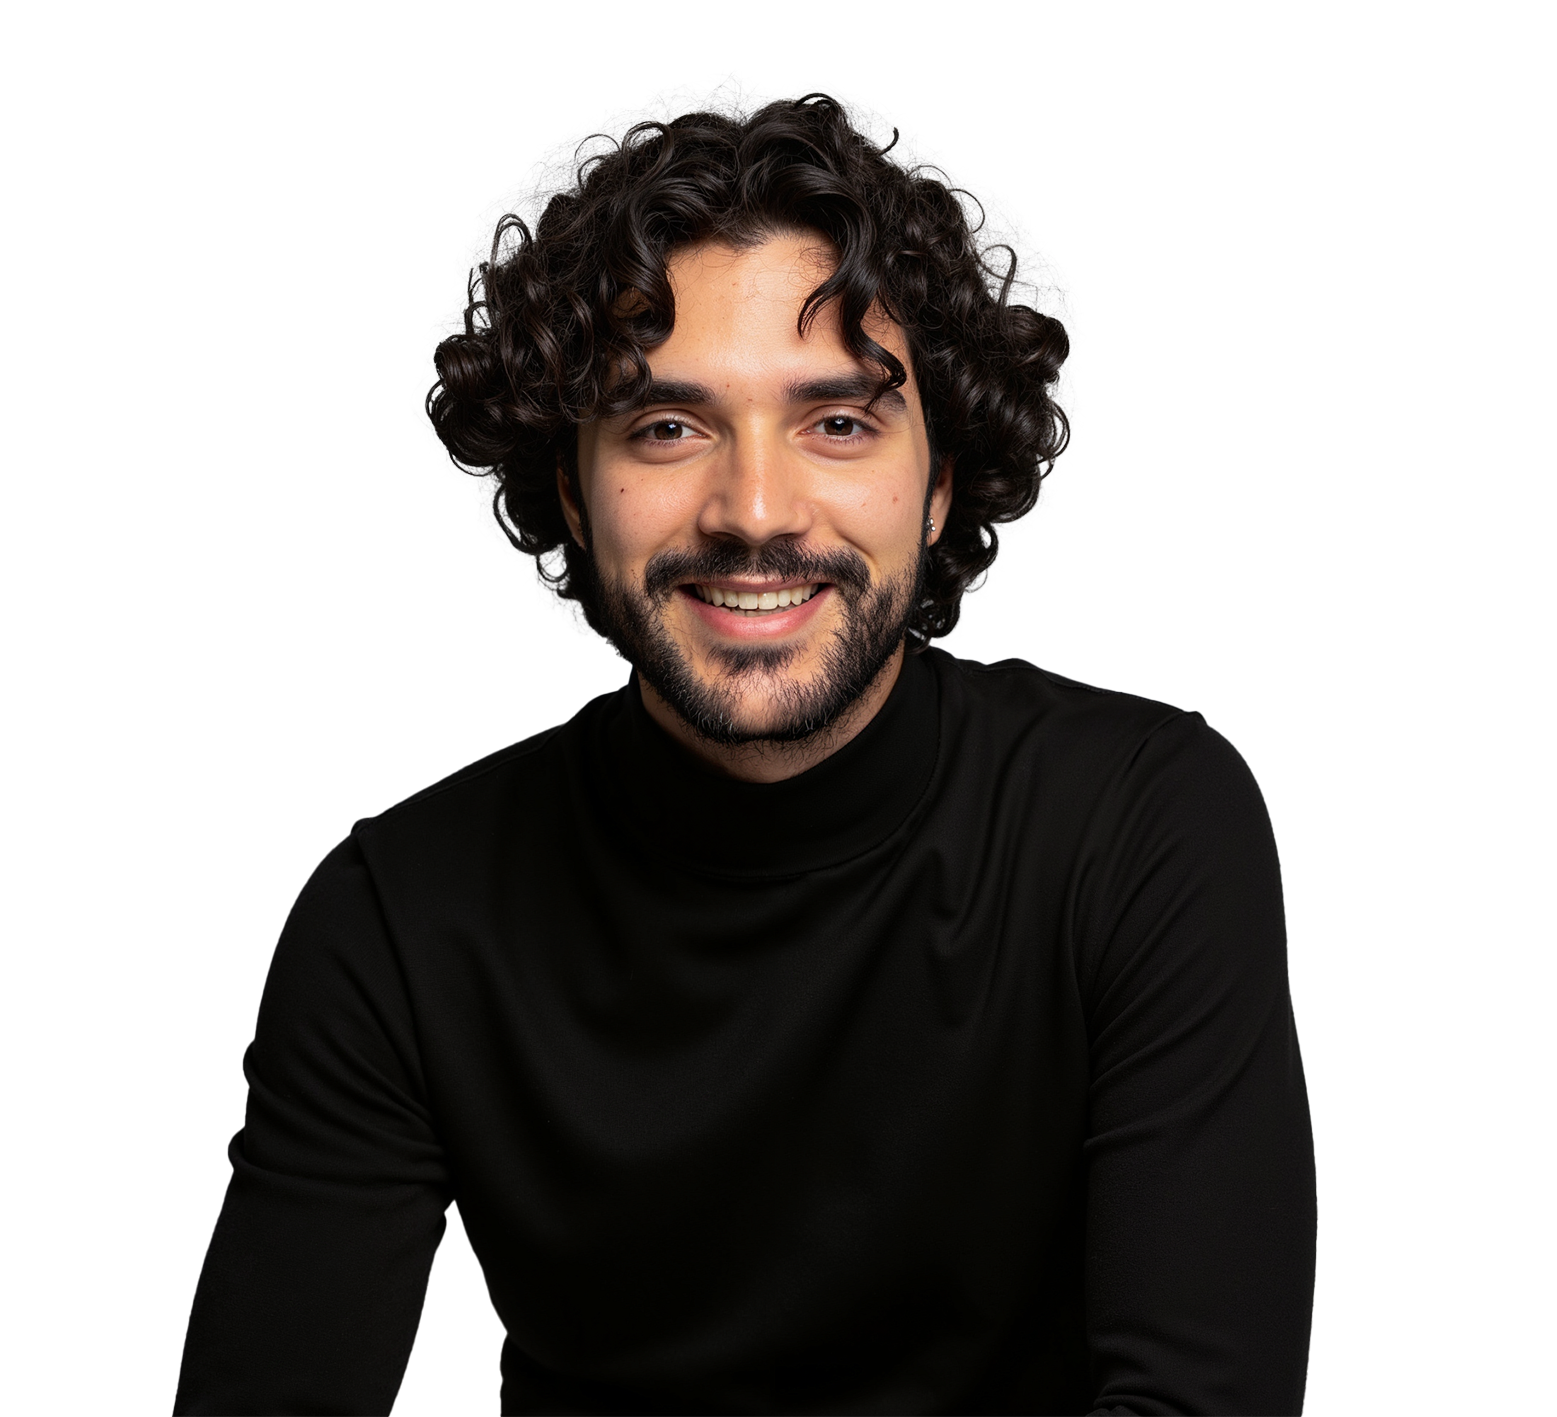
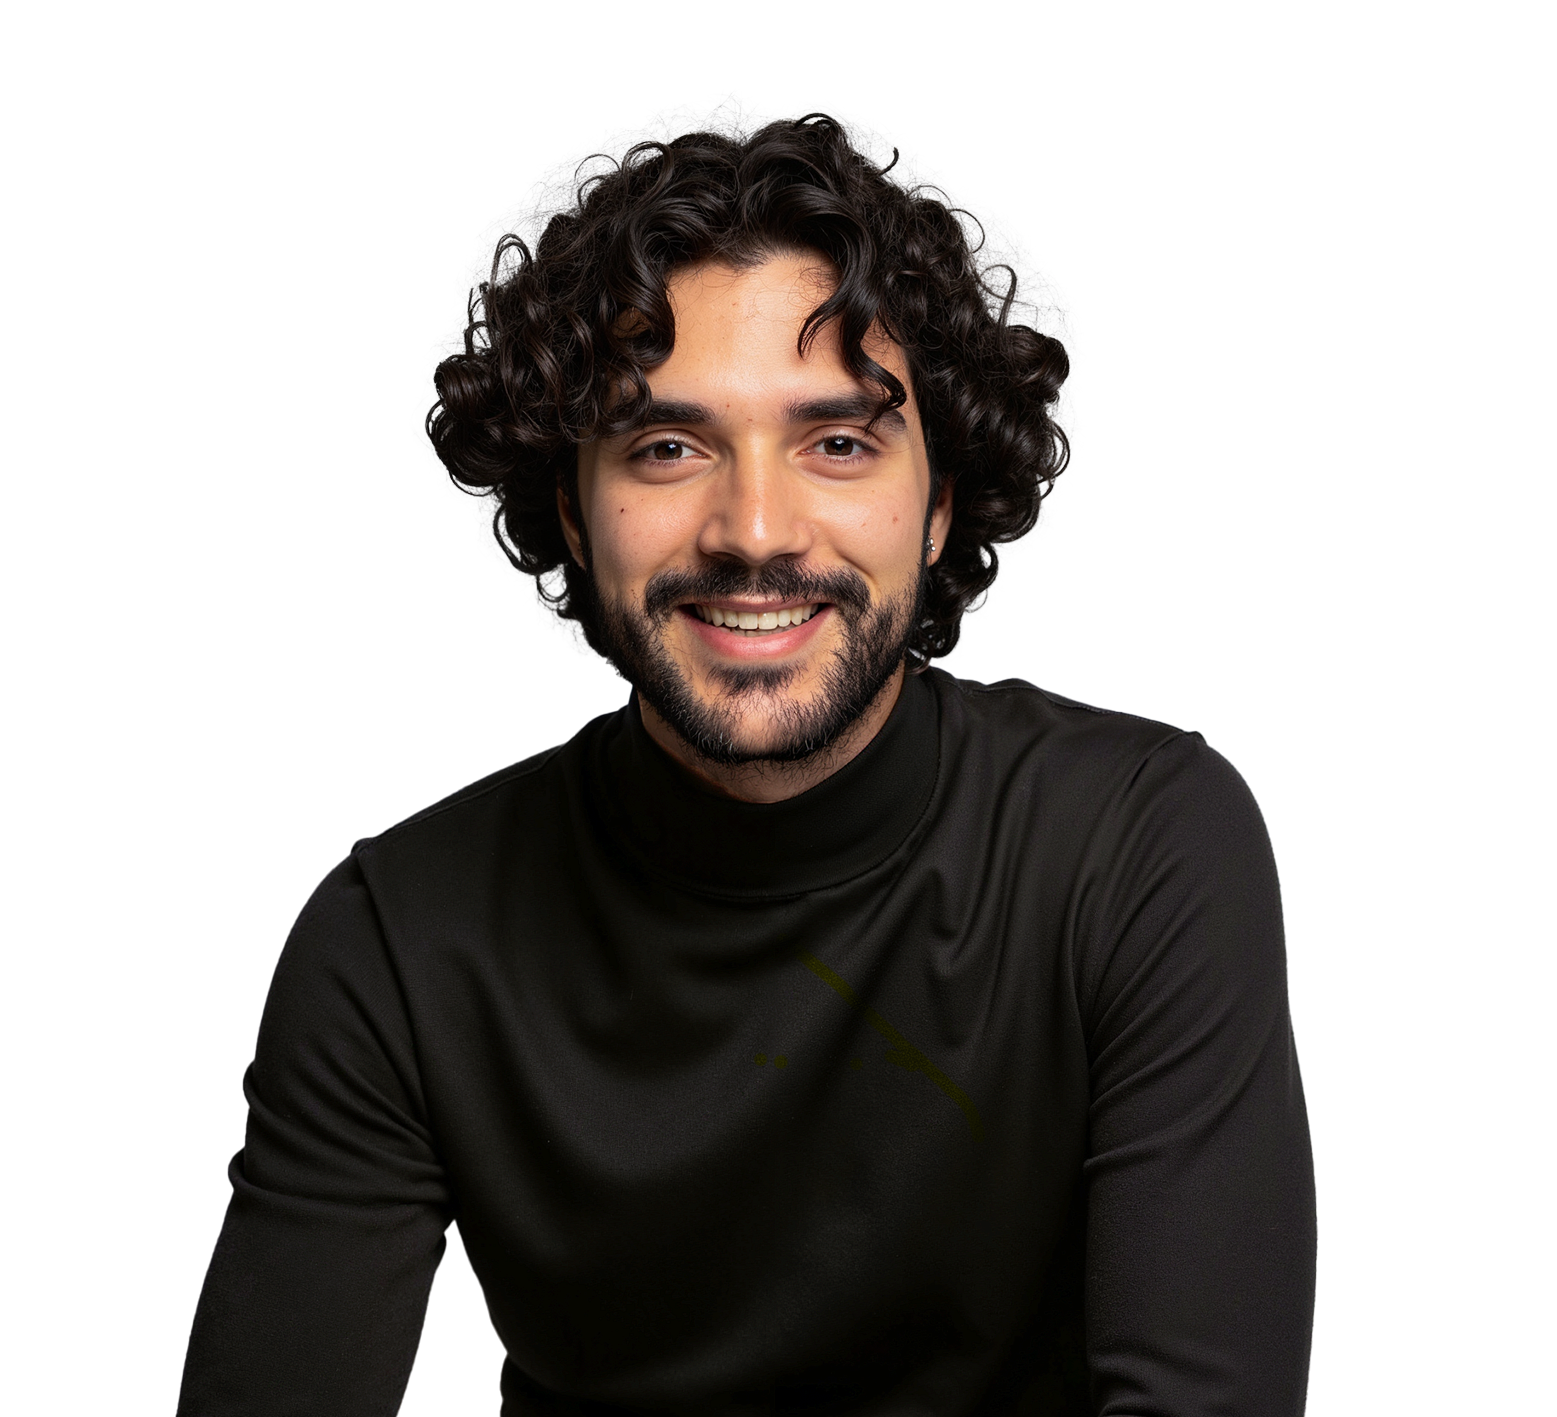
updatesa

diff --git a/tailwind.config.js b/tailwind.config.js
@@ -1,17 +1,116 @@
-/** @type {import('tailwindcss').Config} */
-module.exports = {
-  content: [
-    './pages/**/*.{js,ts,jsx,tsx,mdx}',
-    './components/**/*.{js,ts,jsx,tsx,mdx}',
-    './app/**/*.{js,ts,jsx,tsx,mdx}',
-  ],
-  theme: {
-    extend: {
-      fontFamily: {
-        'rajdhani': ['Rajdhani', 'sans-serif'],
-        'rubik': ['Rubik', 'sans-serif'],
-      },
-    },
-  },
-  plugins: [],
-}
+
+export default {
+	darkMode: ["class"],
+	content: [
+		"./pages/**/*.{ts,tsx}",
+		"./components/**/*.{ts,tsx}",
+		"./app/**/*.{ts,tsx}",
+		"./src/**/*.{ts,tsx}",
+	],
+	prefix: "",
+	theme: {
+		container: {
+			center: true,
+			padding: '2rem',
+			screens: {
+				'2xl': '1400px'
+			}
+		},
+		extend: {
+			colors: {
+				border: 'hsl(var(--border))',
+				input: 'hsl(var(--input))',
+				ring: 'hsl(var(--ring))',
+				background: 'hsl(var(--background))',
+				foreground: 'hsl(var(--foreground))',
+				primary: {
+					DEFAULT: 'hsl(var(--primary))',
+					foreground: 'hsl(var(--primary-foreground))'
+				},
+				secondary: {
+					DEFAULT: 'hsl(var(--secondary))',
+					foreground: 'hsl(var(--secondary-foreground))'
+				},
+				destructive: {
+					DEFAULT: 'hsl(var(--destructive))',
+					foreground: 'hsl(var(--destructive-foreground))'
+				},
+				muted: {
+					DEFAULT: 'hsl(var(--muted))',
+					foreground: 'hsl(var(--muted-foreground))'
+				},
+				accent: {
+					DEFAULT: 'hsl(var(--accent))',
+					foreground: 'hsl(var(--accent-foreground))'
+				},
+				popover: {
+					DEFAULT: 'hsl(var(--popover))',
+					foreground: 'hsl(var(--popover-foreground))'
+				},
+				card: {
+					DEFAULT: 'hsl(var(--card))',
+					foreground: 'hsl(var(--card-foreground))'
+				},
+				sidebar: {
+					DEFAULT: 'hsl(var(--sidebar-background))',
+					foreground: 'hsl(var(--sidebar-foreground))',
+					primary: 'hsl(var(--sidebar-primary))',
+					'primary-foreground': 'hsl(var(--sidebar-primary-foreground))',
+					accent: 'hsl(var(--sidebar-accent))',
+					'accent-foreground': 'hsl(var(--sidebar-accent-foreground))',
+					border: 'hsl(var(--sidebar-border))',
+					ring: 'hsl(var(--sidebar-ring))'
+				},
+				// Custom iPhone colors
+				'iphone-frame': 'hsl(var(--iphone-frame))',
+				'iphone-screen': 'hsl(var(--iphone-screen))',
+				'iphone-highlight': 'hsl(var(--iphone-highlight))',
+				// Custom MacBook colors
+				'macbook-frame': '#e5e7eb',
+				'macbook-base': '#d1d5db',
+				'macbook-screen': '#1f2937'
+			},
+			backgroundImage: {
+				'gradient-primary': 'var(--gradient-primary)',
+				'gradient-secondary': 'var(--gradient-secondary)',
+				'gradient-hero': 'var(--gradient-hero)'
+			},
+			boxShadow: {
+				'phone': 'var(--shadow-phone)',
+				'glow': 'var(--shadow-glow)',
+				'macbook': '0 25px 50px -12px rgba(0, 0, 0, 0.25), 0 0 0 1px rgba(0, 0, 0, 0.05)'
+			},
+			transitionProperty: {
+				'smooth': 'var(--transition-smooth)'
+			},
+			borderRadius: {
+				lg: 'var(--radius)',
+				md: 'calc(var(--radius) - 2px)',
+				sm: 'calc(var(--radius) - 4px)'
+			},
+			keyframes: {
+				'accordion-down': {
+					from: {
+						height: '0'
+					},
+					to: {
+						height: 'var(--radix-accordion-content-height)'
+					}
+				},
+				'accordion-up': {
+					from: {
+						height: 'var(--radix-accordion-content-height)'
+					},
+					to: {
+						height: '0'
+					}
+				}
+			},
+			animation: {
+				'accordion-down': 'accordion-down 0.2s ease-out',
+				'accordion-up': 'accordion-up 0.2s ease-out'
+			}
+		}
+	},
+	plugins: [require("tailwindcss-animate")],
+} 

diff --git a/app/globals.css b/app/globals.css
@@ -6,34 +6,75 @@
 
 /* iPhone Frame CSS Variables */
 :root {
+  --background: 240 10% 3.9%;
+  --foreground: 0 0% 98%;
 
-    /* iPhone specific colors */
+  --card: 240 10% 3.9%;
+  --card-foreground: 0 0% 98%;
+
+  --popover: 240 10% 3.9%;
+  --popover-foreground: 0 0% 98%;
+
+  --primary: 263 70% 50%;
+  --primary-foreground: 0 0% 98%;
+
+  --secondary: 240 3.7% 15.9%;
+  --secondary-foreground: 0 0% 98%;
+
+  --muted: 240 3.7% 15.9%;
+  --muted-foreground: 240 5% 64.9%;
+
+  --accent: 240 3.7% 15.9%;
+  --accent-foreground: 0 0% 98%;
+
+  --destructive: 0 84.2% 60.2%;
+  --destructive-foreground: 0 0% 98%;
+
+  --border: 240 3.7% 15.9%;
+  --input: 240 3.7% 15.9%;
+  --ring: 263 70% 50%;
+
+  --radius: 0.75rem;
+
+  /* Custom design tokens */
+  --gradient-primary: linear-gradient(135deg, hsl(263 70% 50%), hsl(291 84% 60%));
+  --gradient-secondary: linear-gradient(135deg, hsl(240 10% 3.9%), hsl(240 3.7% 15.9%));
+  --gradient-hero: linear-gradient(135deg, hsl(263 70% 50%) 0%, hsl(291 84% 60%) 50%, hsl(316 100% 70%) 100%);
+  
+      /* iPhone specific colors */
     --iphone-frame: 240 6% 10%;
     --iphone-screen: 0 0% 5%;
     --iphone-highlight: 0 0% 100%;
     
+    /* MacBook specific colors */
+    --macbook-frame: 0 0% 85%;
+    --macbook-screen: 0 0% 0%;
+    --macbook-base: 0 0% 75%;
+    --macbook-highlight: 0 0% 100%;
+    
     /* Shadows */
     --shadow-phone: 0 25px 50px -12px hsl(240 10% 3.9% / 0.5);
+    --shadow-macbook: 0 25px 50px -12px hsl(240 10% 3.9% / 0.3);
     --shadow-glow: 0 0 40px hsl(263 70% 50% / 0.3);
-    
-    /* Animations */
-    --transition-smooth: all 0.4s cubic-bezier(0.4, 0, 0.2, 1);
+  
+  /* Animations */
+  --transition-smooth: all 0.4s cubic-bezier(0.4, 0, 0.2, 1);
 
-    --sidebar-background: 0 0% 98%;
+  --sidebar-background: 0 0% 98%;
 
-    --sidebar-foreground: 240 5.3% 26.1%;
+  --sidebar-foreground: 240 5.3% 26.1%;
 
-    --sidebar-primary: 240 5.9% 10%;
+  --sidebar-primary: 240 5.9% 10%;
 
-    --sidebar-primary-foreground: 0 0% 98%;
+  --sidebar-primary-foreground: 0 0% 98%;
 
-    --sidebar-accent: 240 4.8% 95.9%;
+  --sidebar-accent: 240 4.8% 95.9%;
 
-    --sidebar-accent-foreground: 240 5.9% 10%;
+  --sidebar-accent-foreground: 240 5.9% 10%;
 
-    --sidebar-border: 220 13% 91%;
+  --sidebar-border: 220 13% 91%;
 
-    --sidebar-ring: 217.2 91.2% 59.8%;
+  --sidebar-ring: 217.2 91.2% 59.8%;
 }
 
 /* iPhone Frame Utility Classes */

diff --git a/components/homes/home/Hero.jsx b/components/homes/home/Hero.jsx
@@ -2,7 +2,8 @@ import React from "react";
 import Image from "next/image";
 import Link from "next/link";
 import TyperComponent from "@/components/common/TyperComponent";
-export default function Hero() {
+
+export default function Hero({ isLight = false }) {
   return (
     <div className="tmp-banner-one-area">
       <div className="container">
@@ -13,7 +14,7 @@ export default function Hero() {
                 <Image
                   className="tmp-scroll-trigger tmp-zoom-in animation-order-1"
                   alt="banner-img"
-                  src="/assets/images/banner/Giovanni.png"
+                  src={isLight ? "/assets/images/banner/Giovanni_light.png" : "/assets/images/banner/Giovanni.png"}
                   width={486}
                   height={781}
                 />

diff --git a/public/assets/scss/elements/_banner.scss b/public/assets/scss/elements/_banner.scss
@@ -510,7 +510,7 @@
       left: 0px;
       font-size: 48px;
       line-height: 1.2;
-      -webkit-text-stroke: 1px var(--color-heading);
+      -webkit-text-stroke: 1px var(--color-primary);
       color: transparent;
       font-family: var(--font-primary);
       font-weight: 700;
@@ -676,7 +676,7 @@
       }
 
       .banner-big-text-2 {
-        -webkit-text-stroke: 1px var(--color-heading);
+        -webkit-text-stroke: 1px var(--color-primary);
         color: transparent;
         font-family: var(--font-primary);
         font-size: 60px;

diff --git a/data/portfolio.js b/data/portfolio.js
@@ -57,7 +57,8 @@ export const portfolioItems2 = [
     height: 1040,
     title: "Cozy Desk - Work Cozy Everywhere",
     description: "Full Stack Developer - Cofounder",
-    appVideo: 1002095728
+    appVideo: 1002095728,
+    webVideo: 1002095473
   },
   {
     id: 2,

diff --git a/app/page.js b/app/page.js
@@ -23,7 +23,9 @@ export default function Home() {
   return (
     <ThemeWrapper>
       <Header1 />
-      <Hero />
+      <ThemeAwareWrapper>
+        <Hero />
+      </ThemeAwareWrapper>
       <div style={{  height: "72px" }}>
       </div>
       <ThemeAwareWrapper>

diff --git a/app/(homes)/index-white/page.jsx b/app/(homes)/index-white/page.jsx
@@ -25,7 +25,7 @@ export default function Home() {
     <>
       <div className="tmp-white-version">
         <Header1 />
-        <Hero />
+        <Hero isLight />
         <Services isLight />
         <Facts />
         <Skills />
